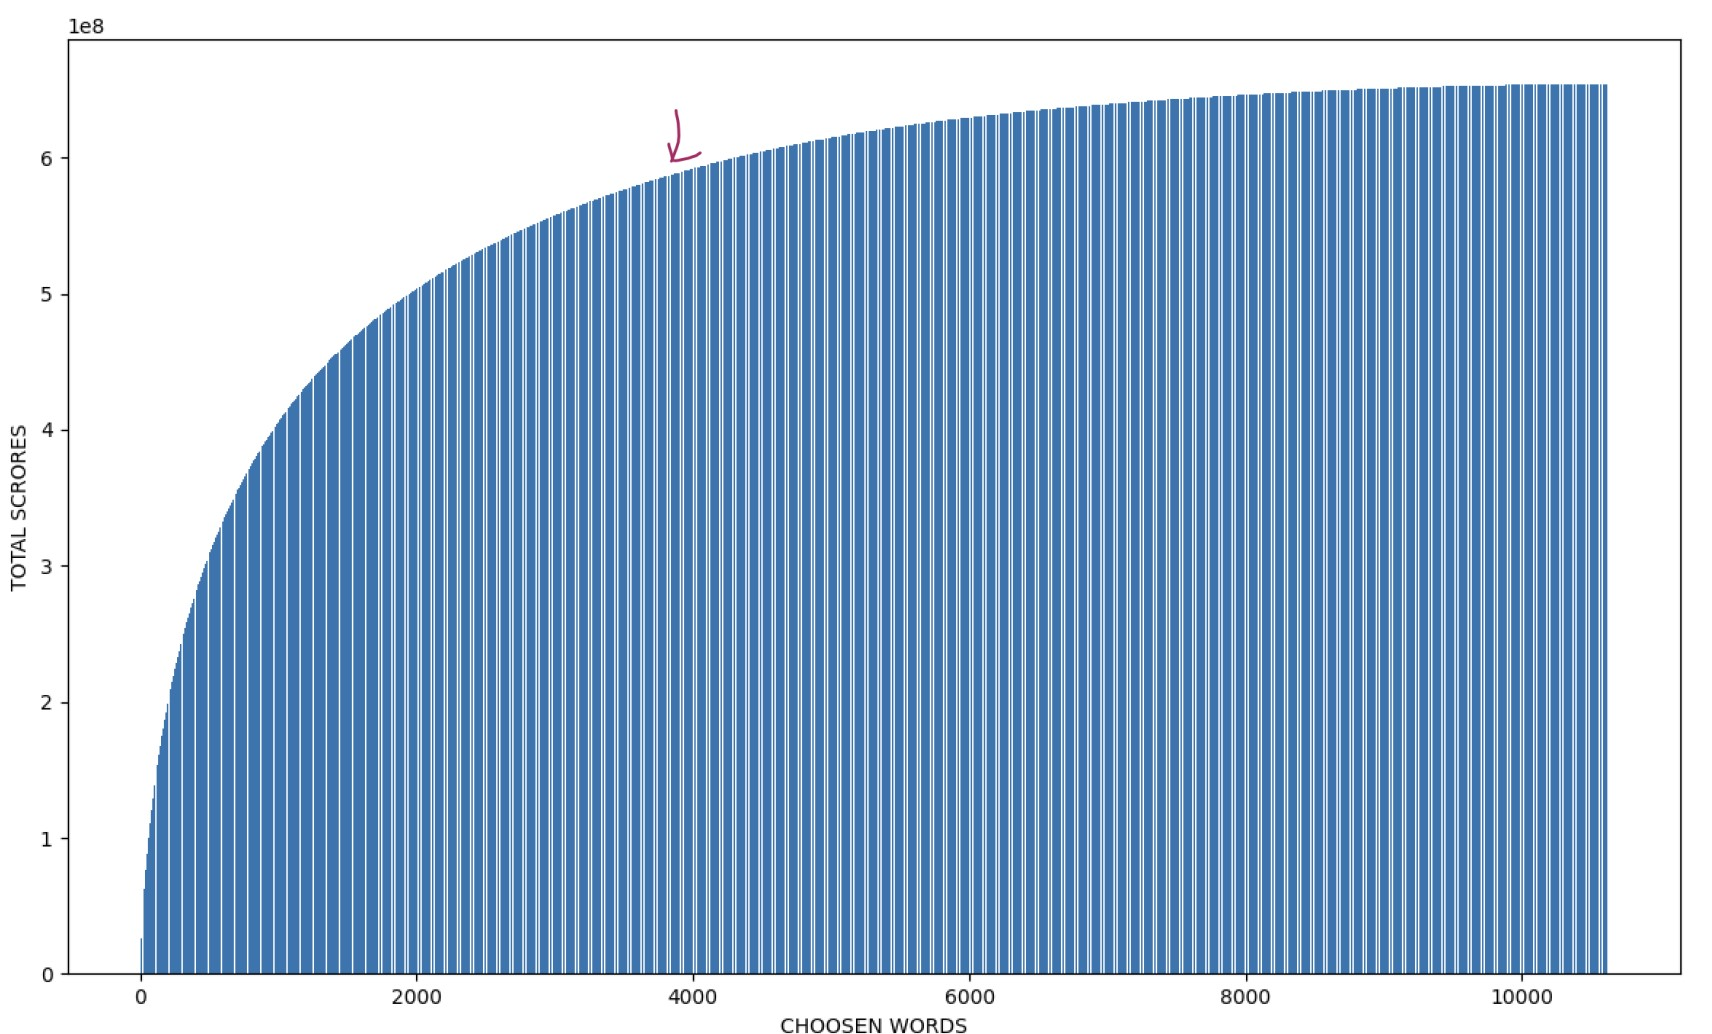
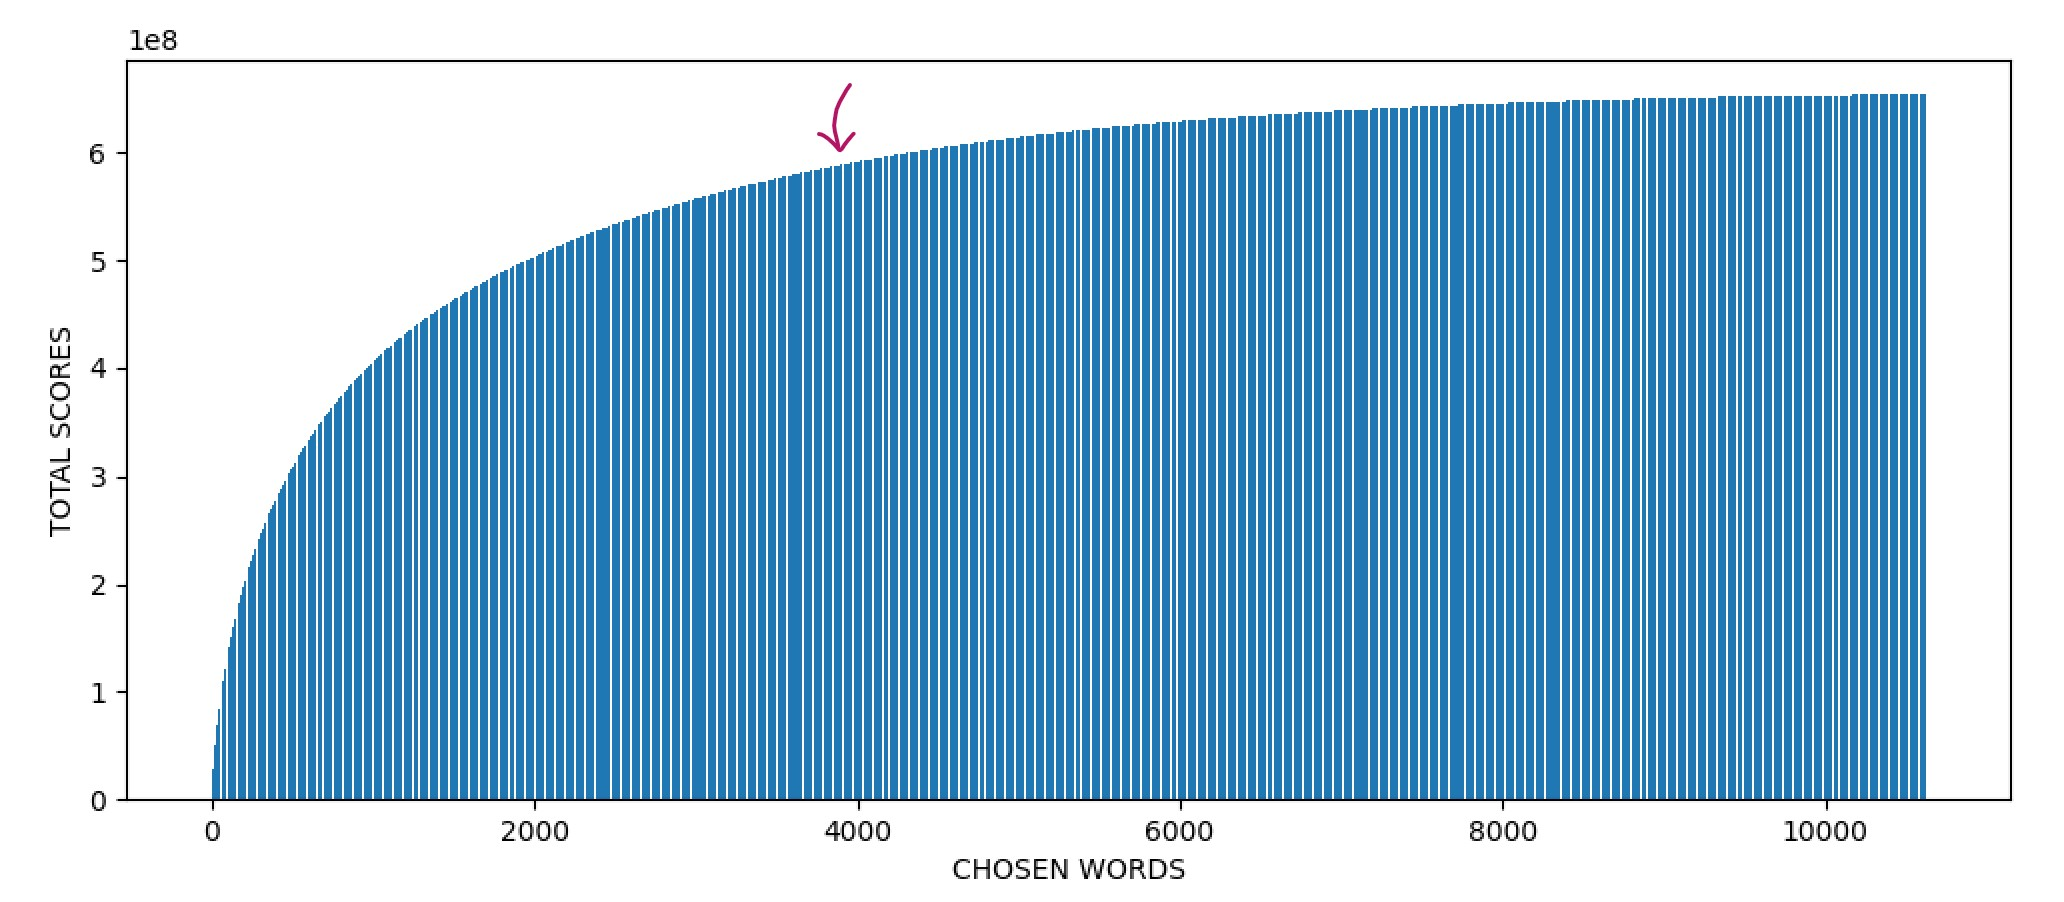
fix spelling errors

diff --git a/vi_words_select.py b/vi_words_select.py
@@ -22,7 +22,7 @@ if __name__ == "__main__":
 	print(df)
 
 	plt.bar(df.words, df.impact)
-	plt.xlabel('CHOOSEN WORDS')
-	plt.ylabel('TOTAL SCRORES')
+	plt.xlabel('CHOSEN WORDS')
+	plt.ylabel('TOTAL SCORES')
 	# plt.yscale('log')
 	plt.show()
